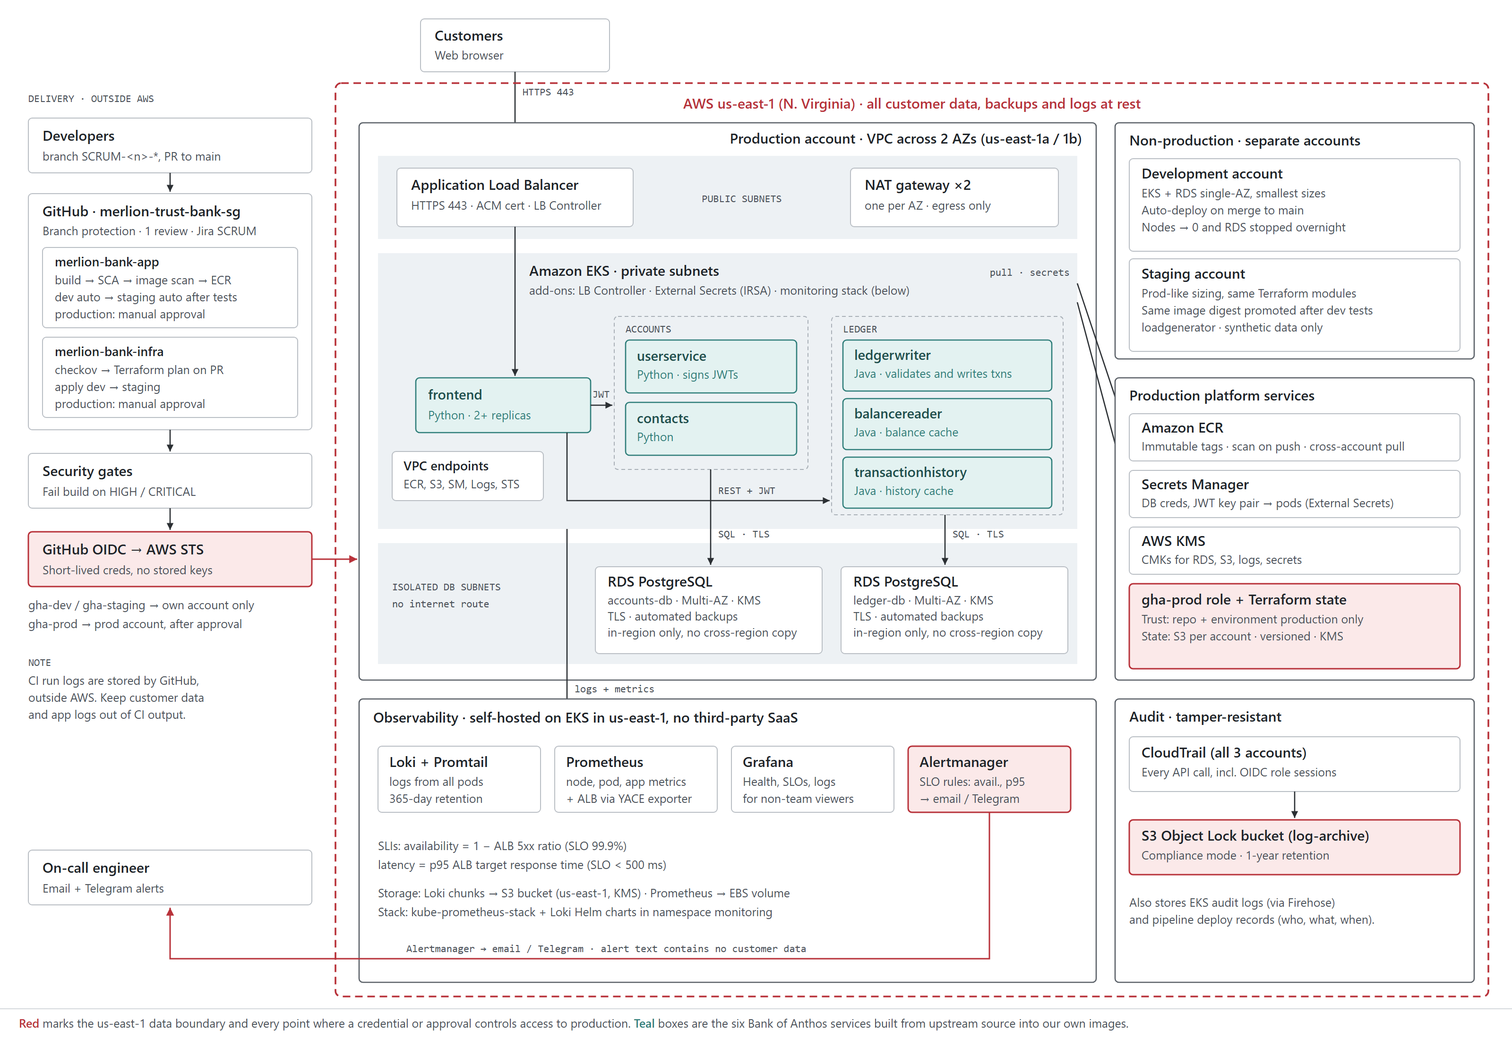
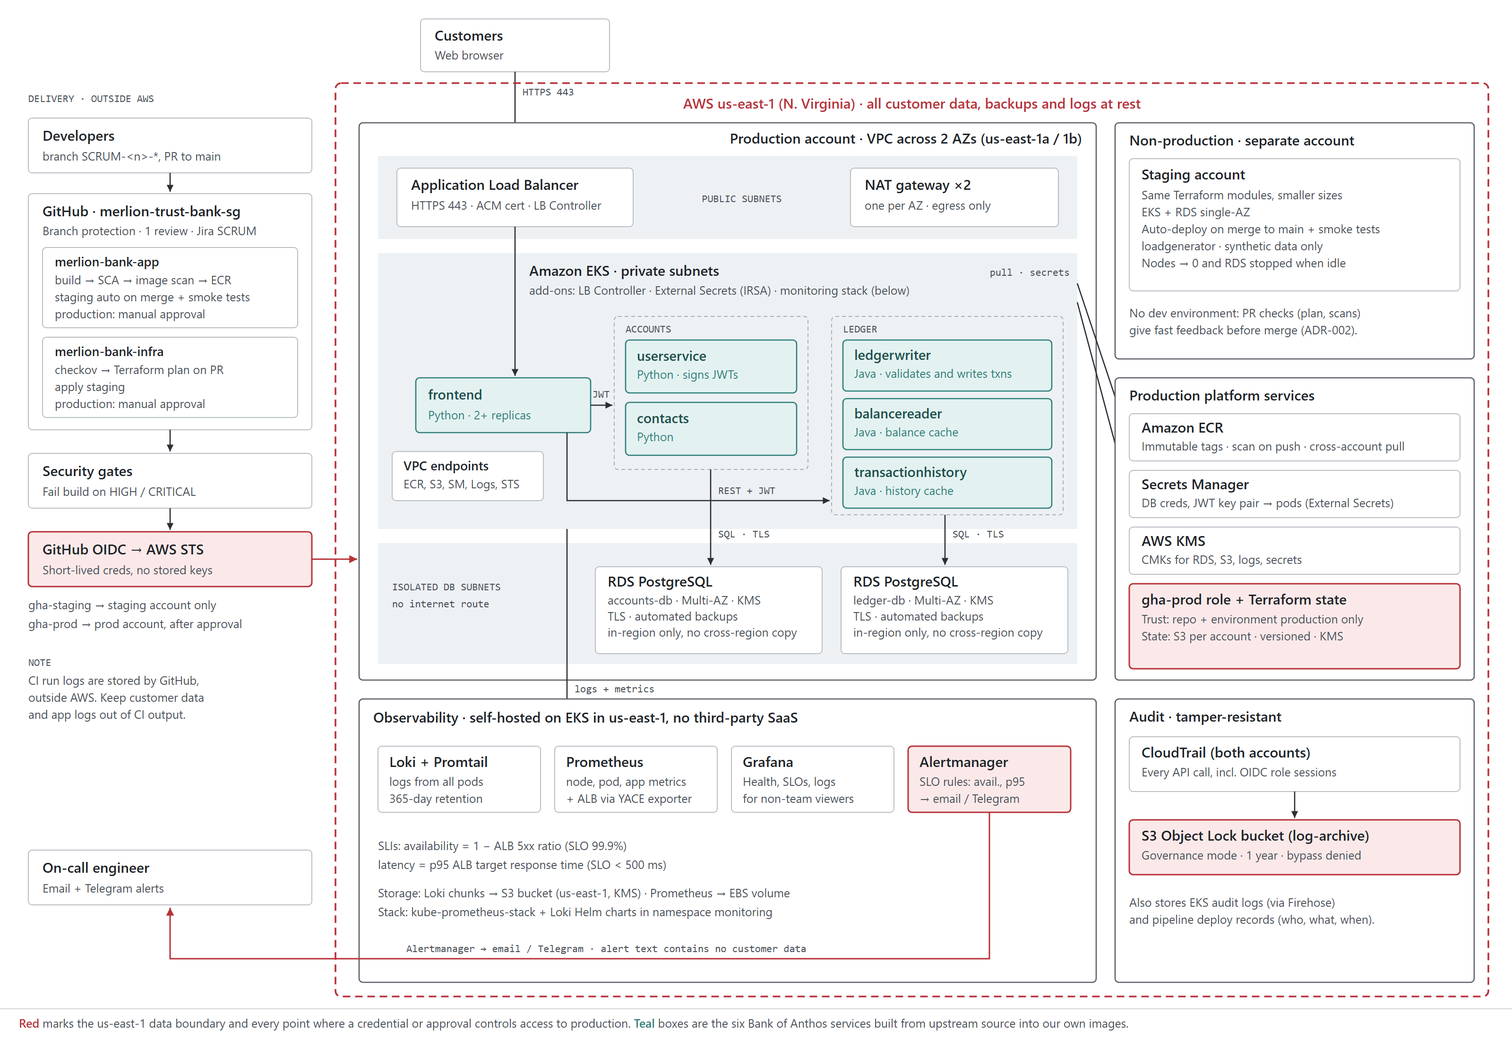
SCRUM-<n>: docs: two environments (staging + production)

diff --git a/docs/task-breakdown.md b/docs/task-breakdown.md
@@ -1,7 +1,7 @@
 # Merlion Trust Bank – Code Check-in Task Breakdown
 
 Capstone: Cloud Infrastructure Engineering · Use Case A (Merlion Trust Bank) · Reference app: Google Bank of Anthos
-Region: **`us-east-1`** (2 AZs: `us-east-1a`, `us-east-1b`) · Accounts: **dev / staging / prod** · Work tracking: **Jira SCRUM board**
+Region: **`us-east-1`** (2 AZs: `us-east-1a`, `us-east-1b`) · Environments / accounts: **staging / prod** · Work tracking: **Jira SCRUM board**
 
 > **Region note.** The brief's data-residency constraint names `ap-southeast-1`. Our instructor has directed us to deploy in **`us-east-1`**, so we treat the constraint as *"all customer data, backups and logs stay in one approved region"*.
 > - Region is a single Terraform variable (`var.region`). Moving to Singapore is a variable change plus a redeploy.
@@ -29,15 +29,15 @@ Region: **`us-east-1`** (2 AZs: `us-east-1a`, `us-east-1b`) · Accounts: **dev /
 
 | Layer | What we build |
 |---|---|
-| Delivery (outside AWS) | GitHub org `merlion-trust-bank-sg` · branches `SCRUM-<n>-*` · PR to `main` with 1 review · Actions: build → SCA → image scan · dev auto → staging auto after tests → **production manual approval** · Terraform plan shown on PR |
-| Identity | GitHub OIDC → AWS STS. `gha-dev` / `gha-staging` can only touch their own account. `gha-prod` reaches the prod account only from the `production` environment, after approval. No stored keys |
-| Accounts | **Dev** (EKS + RDS single-AZ, smallest sizes, auto-deploy on merge, scale to 0 overnight) · **Staging** (prod-like sizing, same Terraform modules, same image promoted, loadgenerator) · **Prod** |
+| Delivery (outside AWS) | GitHub org `merlion-trust-bank-sg` · branches `SCRUM-<n>-*` · PR to `main` with 1 review · Actions: build → SCA → image scan · staging auto on merge → smoke tests → **production manual approval** · Terraform plan shown on PR |
+| Identity | GitHub OIDC → AWS STS. `gha-staging` can only touch the staging account. `gha-prod` reaches the prod account only from the `production` environment, after approval. No stored keys |
+| Accounts | **Staging** (prod-like but smaller, same Terraform modules, auto-deploy on merge, loadgenerator, scaled down when idle) · **Prod** (same image digest promoted after approval). No dev environment: PR checks give fast feedback (ADR-002) |
 | Network (prod) | VPC across 2 AZs. **Public subnets:** ALB (AWS Load Balancer Controller + ACM cert), NAT gateway. **Private subnets:** EKS. **Isolated DB subnets:** no internet route |
 | Workload | 6 Bank of Anthos services built into our own images: `frontend` (2+ replicas), `userservice` (signs JWTs), `contacts`, `ledgerwriter`, `balancereader`, `transactionhistory` |
 | Data | RDS PostgreSQL `accounts-db` and `ledger-db`: Multi-AZ, KMS-encrypted, automated backups, SQL over TLS |
 | Platform services | ECR (immutable tags, scan on push) · Secrets Manager (DB creds, JWT key pair → pods via External Secrets/IRSA) · KMS CMKs (RDS, S3, logs, secrets) · Terraform state in S3 (versioned, encrypted) |
 | Observability | **Self-hosted on EKS** in `us-east-1`, no third-party SaaS (namespace `monitoring`, `kube-prometheus-stack` + Loki Helm charts): **Loki + Promtail** (logs from all pods, chunks in S3 `us-east-1` + KMS, 365-day retention) · **Prometheus** (node, pod, app metrics on EBS; ALB metrics via **YACE** CloudWatch exporter) · **Grafana** (health, SLOs, logs for non-team viewers) · **Alertmanager** (SLO rules → email / Telegram) |
-| Audit | CloudTrail in all 3 accounts → **S3 Object Lock, compliance mode, 1-year retention**. Also stores EKS audit logs and pipeline deploy records (who, what, when) |
+| Audit | CloudTrail in both accounts → **S3 Object Lock, governance mode, 1-year retention** (bypass + deletes denied by bucket policy). Also stores EKS audit logs and pipeline deploy records (who, what, when) |
 
 ---
 
@@ -50,7 +50,7 @@ merlion-bank-infra/
 ├── .github/
 │   ├── workflows/
 │   │   ├── tf-plan.yml            # PR: fmt, validate, tflint, checkov, plan per env -> PR comment
-│   │   └── tf-apply.yml           # main: apply dev -> staging -> (approval) -> prod
+│   │   └── tf-apply.yml           # main: apply staging -> (approval) -> prod
 │   ├── CODEOWNERS
 │   └── pull_request_template.md
 ├── bootstrap/                     # per account: state bucket, lock, GitHub OIDC provider
@@ -61,14 +61,13 @@ merlion-bank-infra/
 │   ├── rds/                       # accounts-db, ledger-db
 │   ├── ecr/                       # one repo per service
 │   ├── secrets/                   # Secrets Manager entries (DB creds, JWT key pair)
-│   ├── iam-ci/                    # gha-dev, gha-staging, gha-prod OIDC roles
+│   ├── iam-ci/                    # gha-staging, gha-prod OIDC roles
 │   ├── audit/                     # CloudTrail + Object Lock bucket
 │   ├── addons/                    # LB Controller, External Secrets
 │   └── observability/             # Loki S3 bucket + IRSA, Helm releases (kube-prometheus-stack,
 │                                  #   Loki, Promtail, YACE), Grafana dashboards JSON,
 │                                  #   PrometheusRules (SLOs), Alertmanager routes
 ├── envs/
-│   ├── dev/                       # root module, dev account
 │   ├── staging/                   # root module, staging account
 │   └── prod/                      # root module, prod account
 ├── docs/
@@ -89,14 +88,13 @@ merlion-bank-app/
 ├── .github/
 │   ├── workflows/
 │   │   ├── ci.yml                 # PR: SCA, build, image scan (fail on HIGH/CRITICAL), gitleaks
-│   │   └── cd.yml                 # main: push ECR -> dev -> tests -> staging -> approval -> prod
+│   │   └── cd.yml                 # main: push ECR -> staging -> smoke tests -> approval -> prod
 │   ├── CODEOWNERS
 │   └── pull_request_template.md
 ├── src/                           # Bank of Anthos upstream source, pinned release tag
 ├── deploy/
 │   └── helm/bank-of-anthos/       # OUR chart (upstream manifests = reference only)
 │       ├── templates/
-│       ├── values-dev.yaml
 │       ├── values-staging.yaml
 │       └── values-prod.yaml
 ├── ops/
@@ -105,7 +103,7 @@ merlion-bank-app/
 │   ├── queries/                   # saved LogQL / PromQL queries
 │   └── demo/                      # failing-gate PR + alert trigger scripts
 ├── security/.trivyignore          # justified exceptions only, each with expiry
-└── README.md                      # pipeline doc: SCRUM branch -> PR -> dev -> staging -> prod
+└── README.md                      # pipeline doc: SCRUM branch -> PR -> staging -> prod
 ```
 
 ---
@@ -120,7 +118,7 @@ merlion-bank-app/
 | Reviewer | **Never the author**, and preferably from a different role (see "Reviewer" columns) |
 | Commit messages | `SCRUM-<n>: <type>(<scope>): <summary>`. Example: `SCRUM-12: feat(network): add isolated DB subnets` |
 | PR template | What changed · Why · Jira link · `terraform plan` / test evidence · Constraint impact (region / audit / retention / credentials) |
-| GitHub Environments | `dev` (no gate) · `staging` (no gate, runs after dev tests) · `production` (**required reviewers**, only `main`) |
+| GitHub Environments | `staging` (no gate, auto on merge to `main`) · `production` (**required reviewers**, only `main`) |
 | Never commit | Secrets, kubeconfigs, `.terraform/`, state files, `*.tfvars` with secrets. gitleaks runs as a pre-commit hook and in CI |
 | CI output hygiene | CI run logs are stored by GitHub, outside our AWS region. **No customer data and no app logs in CI output.** Smoke tests assert on status codes only |
 
@@ -135,23 +133,23 @@ Replace `SCRUM-<n>` with the Jira issue number when you create the ticket.
 | ID | Task | Owner | Branch | Key files | Depends on | Reviewer |
 |---|---|---|---|---|---|---|
 | INF-01 | Repo setup: branch protection, CODEOWNERS, PR template, `.gitignore`, gitleaks pre-commit, Jira link, README skeleton | DO1 | `SCRUM-<n>-repo-setup` | `.github/*`, `README.md` | – | SA |
-| INF-02 | Bootstrap **each account** (dev, staging, prod): S3 state bucket (versioned, KMS), lock table, GitHub OIDC provider | DO1 | `SCRUM-<n>-bootstrap` | `bootstrap/` | INF-01 | SRE |
-| INF-03 | OIDC roles `gha-dev`, `gha-staging`, `gha-prod`. Trust is pinned to `repo:merlion-trust-bank-sg/*` + environment; `gha-prod` trusts only `environment:production`; each role is scoped to its own account | DO1 | `SCRUM-<n>-oidc-roles` | `modules/iam-ci/` | INF-02 | SA |
+| INF-02 | Bootstrap **each account** (staging, prod): S3 state bucket (versioned, KMS), lock table, GitHub OIDC provider | DO1 | `SCRUM-<n>-bootstrap` | `bootstrap/` | INF-01 | SRE |
+| INF-03 | OIDC roles `gha-staging`, `gha-prod`. Trust is pinned to `repo:merlion-trust-bank-sg/*` + environment; `gha-prod` trusts only `environment:production`; each role is scoped to its own account | DO1 | `SCRUM-<n>-oidc-roles` | `modules/iam-ci/` | INF-02 | SA |
 | INF-04 | KMS module: CMKs for RDS, S3 (state + audit), CloudWatch Logs, Secrets Manager; key policies, rotation on | DO2 | `SCRUM-<n>-kms` | `modules/kms/` | INF-02 | DO1 |
-| INF-05 | Network: VPC across **2 AZs (`us-east-1a`, `us-east-1b`)**. Public subnets (ALB, NAT), private subnets (EKS), **isolated DB subnets with no internet route**, VPC endpoints (ECR, S3, Secrets Manager, Logs, STS). 1 NAT in dev/staging | DO1 | `SCRUM-<n>-network` | `modules/network/` | INF-02 | SA |
+| INF-05 | Network: VPC across **2 AZs (`us-east-1a`, `us-east-1b`)**. Public subnets (ALB, NAT), private subnets (EKS), **isolated DB subnets with no internet route**, VPC endpoints (ECR, S3, Secrets Manager, Logs, STS). 1 NAT in staging, 1 per AZ in prod | DO1 | `SCRUM-<n>-network` | `modules/network/` | INF-02 | SA |
 | INF-06 | EKS: cluster in private subnets, managed node group, IRSA, control-plane logs **including `audit`** → CloudWatch | DO1 | `SCRUM-<n>-eks` | `modules/eks/` | INF-05 | SRE |
-| INF-07 | RDS: `accounts-db` and `ledger-db` PostgreSQL in isolated DB subnets. Multi-AZ in staging/prod, single-AZ in dev. KMS encryption, automated backups, `rds.force_ssl = 1`, SG allows only EKS nodes | DO2 | `SCRUM-<n>-rds` | `modules/rds/` | INF-04, INF-05 | DO1 |
+| INF-07 | RDS: `accounts-db` and `ledger-db` PostgreSQL in isolated DB subnets. Multi-AZ in prod, single-AZ in staging (cost). KMS encryption, automated backups, `rds.force_ssl = 1`, SG allows only EKS nodes | DO2 | `SCRUM-<n>-rds` | `modules/rds/` | INF-04, INF-05 | DO1 |
 | INF-08 | ECR: one repo per service, **immutable tags**, scan on push, lifecycle policy. Promotion model (central vs per-account) per ADR-007 | DO2 | `SCRUM-<n>-ecr` | `modules/ecr/` | INF-02 | DO1 |
 | INF-09 | Secrets Manager: DB credentials (RDS-managed master secret) and JWT key pair, KMS-encrypted. Read access only for the External Secrets IRSA role | DO2 | `SCRUM-<n>-secrets` | `modules/secrets/` | INF-04, INF-07 | SRE |
-| INF-10 | Audit: CloudTrail in **all 3 accounts** (management + data events for audit bucket) → S3 bucket with **Object Lock compliance mode, 365 days**, log file validation, bucket policy denying delete/`PutBucketObjectLockConfiguration` to engineering roles; prefixes for EKS audit logs and pipeline deploy records | SA | `SCRUM-<n>-audit-trail` | `modules/audit/` | INF-04 | DO1 |
+| INF-10 | Audit: CloudTrail in **both accounts** (management + data events for audit bucket) → S3 bucket with **Object Lock governance mode, 365 days** (instructor advice), log file validation, bucket policy denying `DeleteObject*` and `s3:BypassGovernanceRetention` to everyone; prefixes for EKS audit logs and pipeline deploy records | SA | `SCRUM-<n>-audit-trail` | `modules/audit/` | INF-04 | DO1 |
 | INF-11 | Region guardrail: `var.region = "us-east-1"` in every env root; deny-other-regions policy on CI roles; CloudTrail alarm on console write events in prod | SA | `SCRUM-<n>-region-guardrail` | `modules/iam-ci/`, `envs/*/providers.tf` | INF-03, INF-10 | DO1 |
-| INF-12 | Env roots `envs/dev`, `envs/staging`, `envs/prod` wiring all modules. Separate state per account; dev smallest sizes, staging prod-like | DO1 | `SCRUM-<n>-env-roots` | `envs/` | INF-04…10 | DO2 |
-| INF-13 | Infra pipeline. **PR:** fmt / validate / tflint / **checkov (fail on HIGH)** / `plan` per env posted as PR comment. **main:** apply dev (`gha-dev`) → staging (`gha-staging`) → **manual approval** → prod (`gha-prod`) | DO2 | `SCRUM-<n>-tf-pipeline` | `.github/workflows/tf-*.yml` | INF-03, INF-12 | DO1 |
+| INF-12 | Env roots `envs/staging`, `envs/prod` wiring all modules. Separate state per account; staging smaller sizes | DO1 | `SCRUM-<n>-env-roots` | `envs/` | INF-04…10 | DO2 |
+| INF-13 | Infra pipeline. **PR:** fmt / validate / tflint / **checkov (fail on HIGH)** / `plan` per env posted as PR comment. **main:** apply staging (`gha-staging`) → **manual approval** → prod (`gha-prod`) | DO2 | `SCRUM-<n>-tf-pipeline` | `.github/workflows/tf-*.yml` | INF-03, INF-12 | DO1 |
 | INF-14 | Cluster add-ons part 1: **AWS Load Balancer Controller** (IRSA), **ACM certificate** for the ALB, **External Secrets Operator** (IRSA → Secrets Manager) | DO2 | `SCRUM-<n>-addons-lb-eso` | `modules/addons/` | INF-06, INF-09 | SRE |
 | INF-15 | Monitoring stack in namespace `monitoring` via Helm (Terraform `helm_release`, pinned chart versions): **kube-prometheus-stack** (Prometheus on EBS PV, node-exporter, kube-state-metrics, Grafana, Alertmanager), **Loki** with chunks in an **S3 bucket in `us-east-1`** (KMS, IRSA, compactor retention **365 days**), **Promtail** DaemonSet (or Grafana Alloy, Promtail's successor), **YACE** exporter (IRSA, read-only CloudWatch) for ALB 5xx / `TargetResponseTime`. Grafana exposed via ALB ingress with login, admin password from Secrets Manager | SRE | `SCRUM-<n>-monitoring-stack` | `modules/observability/` | INF-06, INF-04, INF-14 | DO2 |
 | INF-16 | Alert routing: **Alertmanager** receivers for **email** (SMTP) and **Telegram** (native `telegram_configs`). Bot token + SMTP creds via External Secrets, never in values files. Alert templates carry metric names and thresholds only, **no customer data**. Include a `Watchdog` / dead-man's-switch alert so a down Prometheus is noticed | SRE | `SCRUM-<n>-alertmanager-routing` | `modules/observability/` | INF-15 | DO2 |
 | INF-17 | **Grafana dashboard** ("is the system healthy right now?"): SLO status + error budget, ALB requests / 5xx / p95, pod and node CPU and memory, Loki log panel per service. Provisioned as JSON (dashboards-as-code). **PrometheusRules** for SLOs: availability burn rate, p95 > 500 ms, plus pod CrashLoop / DB unreachable | SRE | `SCRUM-<n>-grafana-slo-rules` | `modules/observability/` | INF-15, INF-16, APP-13 | SA |
-| INF-18 | Cost controls: tagging standard, AWS Budgets alert per account, **dev scale-to-0 overnight** (scheduled node group scaling), teardown workflow | SRE | `SCRUM-<n>-cost-controls` | `envs/dev/`, `.github/workflows/teardown.yml` | INF-12 | SA |
+| INF-18 | Cost controls: tagging standard, AWS Budgets alert per account, **staging scale-to-0 when idle** (scheduled node group scaling, RDS stop), teardown workflow | SRE | `SCRUM-<n>-cost-controls` | `envs/staging/`, `.github/workflows/teardown.yml` | INF-12 | SA |
 
 ### 5.2 Docs and ADRs (`merlion-bank-infra/docs`)
 
@@ -161,20 +159,20 @@ Replace `SCRUM-<n>` with the Jira issue number when you create the ticket.
 | DOC-02 | Architecture diagram: update the region label to `us-east-1` and keep it matching what's deployed | SA | `SCRUM-<n>-architecture-diagram` | DO1 |
 | DOC-03 | Service selection: chosen vs alternative vs why (EKS, RDS, GitHub Actions, Prometheus/Loki/Grafana, Secrets Manager) | SA | `SCRUM-<n>-service-selection` | DO2 |
 | DOC-04 | Constraint compliance mapping: constraint → decision → evidence (see [section 8](#8-hard-constraint-traceability)) | SA | `SCRUM-<n>-compliance-map` | SRE |
-| DOC-05 | Monthly prod cost estimate with `us-east-1` pricing (EKS, nodes incl. monitoring stack, 2× Multi-AZ RDS, NAT, ALB, EBS for Prometheus, S3 for Loki + audit, CloudTrail, YACE CloudWatch API calls) plus dev/staging run cost | SA | `SCRUM-<n>-cost-estimate` | SRE |
+| DOC-05 | Monthly prod cost estimate with `us-east-1` pricing (EKS, nodes incl. monitoring stack, 2× Multi-AZ RDS, NAT, ALB, EBS for Prometheus, S3 for Loki + audit, CloudTrail, YACE CloudWatch API calls) plus staging run cost | SA | `SCRUM-<n>-cost-estimate` | SRE |
 | DOC-06 | ADR-001 Runtime: EKS vs ECS | SA | `SCRUM-<n>-adr-001-runtime` | DO1 |
-| DOC-07 | ADR-002 Multi-account dev/staging/prod vs single account | DO1 | `SCRUM-<n>-adr-002-accounts` | SA |
+| DOC-07 | ADR-002 Environments: staging + production, one account each (vs single account, vs adding dev) | DO1 | `SCRUM-<n>-adr-002-accounts` | SA |
 | DOC-08 | ADR-003 Observability: **self-hosted Prometheus + Loki + Grafana + Alertmanager on EKS** (chosen) vs CloudWatch (alternative) vs Grafana Cloud (rejected: SaaS, data outside our region). Consequences: data stays in `us-east-1`, open-source skills from the labs, no per-GB ingest fees; but we operate it ourselves (single replicas, so a Watchdog alert is needed), and ALB metrics still come from CloudWatch via YACE | SRE | `SCRUM-<n>-adr-003-observability` | SA |
-| DOC-09 | ADR-004 Audit log immutability: S3 Object Lock compliance mode, 1 year | SA | `SCRUM-<n>-adr-004-audit` | DO1 |
+| DOC-09 | ADR-004 Audit log immutability: S3 Object Lock governance mode + denied bypass, 1 year (vs compliance mode) | SA | `SCRUM-<n>-adr-004-audit` | DO1 |
 | DOC-10 | ADR-005 Credentials: GitHub OIDC per environment, no static keys | DO1 | `SCRUM-<n>-adr-005-oidc` | DO2 |
 | DOC-11 | ADR-006 Region: `us-east-1` per instructor directive (deviation from the brief, approval recorded, region parameterised) | SA | `SCRUM-<n>-adr-006-region` | SRE |
-| DOC-12 | ADR-007 Image promotion: build once, promote the same digest dev → staging → prod (central ECR vs per-account copy) | DO2 | `SCRUM-<n>-adr-007-promotion` | DO1 |
+| DOC-12 | ADR-007 Image promotion: build once, promote the same digest staging → prod (central ECR vs per-account copy) | DO2 | `SCRUM-<n>-adr-007-promotion` | DO1 |
 
 ### 5.3 `merlion-bank-app`
 
 | ID | Task | Owner | Branch | Key files | Depends on | Reviewer |
 |---|---|---|---|---|---|---|
-| APP-01 | Repo setup: branch protection, CODEOWNERS, PR template, GitHub Environments `dev`, `staging`, `production` (prod requires reviewers) | DO2 | `SCRUM-<n>-repo-setup` | `.github/*` | – | DO1 |
+| APP-01 | Repo setup: branch protection, CODEOWNERS, PR template, GitHub Environments `staging`, `production` (prod requires reviewers) | DO2 | `SCRUM-<n>-repo-setup` | `.github/*` | – | DO1 |
 | APP-02 | Vendor Bank of Anthos source at a pinned release tag into `src/`, recording the upstream commit in README | DO2 | `SCRUM-<n>-import-source` | `src/`, `README.md` | APP-01 | SA |
 | APP-03 | Build images for the **6 services** (+ `loadgenerator` for staging), tagged with git SHA, pushed by digest | DO2 | `SCRUM-<n>-image-builds` | `ci.yml` | APP-02, INF-08 | DO1 |
 | APP-04 | **Security gate 1 – SCA:** Trivy `fs` / OWASP dependency-check on Python + Java deps, **fail on HIGH/CRITICAL**, exit code not suppressed | DO2 | `SCRUM-<n>-sca-gate` | `ci.yml` | APP-03 | SRE |
@@ -182,10 +180,10 @@ Replace `SCRUM-<n>` with the Jira issue number when you create the ticket.
 | APP-06 | Secret scanning: gitleaks in CI | DO1 | `SCRUM-<n>-gitleaks` | `ci.yml` | APP-01 | DO2 |
 | APP-07 | Helm chart (our own): 6 Deployments + Services, **`frontend` ≥ 2 replicas**, probes, requests/limits, PDBs, HPA on `frontend`. Ingress `ingressClassName: alb` with ACM cert and HTTPS 443. DB endpoints → RDS over TLS | DO1 | `SCRUM-<n>-helm-chart` | `deploy/helm/` | APP-03, INF-07, INF-14 | DO2 |
 | APP-08 | Secrets wiring: `ExternalSecret` objects for DB creds + JWT key pair → Kubernetes Secrets → pods. Nothing in values files or images | DO1 | `SCRUM-<n>-external-secrets` | `deploy/helm/templates/externalsecret.yaml` | APP-07, INF-09, INF-14 | SRE |
-| APP-09 | Env values: `values-dev` (1 replica, smallest), `values-staging` (prod-like, `loadgenerator` on), `values-prod` | DO1 | `SCRUM-<n>-env-values` | `deploy/helm/values-*.yaml` | APP-07 | SA |
-| APP-10 | CD pipeline: merge to `main` → build + gates → push → **dev** (`gha-dev`) auto → smoke tests → **staging** (`gha-staging`) auto, same digest → **manual approval** → **prod** (`gha-prod`) | DO2 | `SCRUM-<n>-cd-pipeline` | `cd.yml` | APP-05, APP-09, INF-03 | DO1 |
+| APP-09 | Env values: `values-staging` (smaller, `loadgenerator` on), `values-prod` | DO1 | `SCRUM-<n>-env-values` | `deploy/helm/values-*.yaml` | APP-07 | SA |
+| APP-10 | CD pipeline: merge to `main` → build + gates → push → **staging** (`gha-staging`) auto → smoke tests → **manual approval** → **prod** (`gha-prod`), same image digest | DO2 | `SCRUM-<n>-cd-pipeline` | `cd.yml` | APP-05, APP-09, INF-03 | DO1 |
 | APP-11 | Deploy audit record: on every prod deploy, the pipeline writes `{actor, approver, PR, commit SHA, image digest, env, timestamp}` to the Object Lock bucket | SA | `SCRUM-<n>-deploy-audit` | `cd.yml` | APP-10, INF-10 | DO2 |
-| APP-12 | Pipeline README: SCRUM branch → PR → dev → staging → prod; approvals; **what happens when a security gate fails**; CI-log hygiene note | DO2 | `SCRUM-<n>-pipeline-readme` | `README.md` | APP-10 | SA |
+| APP-12 | Pipeline README: SCRUM branch → PR → staging → prod; approvals; **what happens when a security gate fails**; CI-log hygiene note | DO2 | `SCRUM-<n>-pipeline-readme` | `README.md` | APP-10 | SA |
 | APP-13 | Logging check: all 6 services log to stdout, visible in Loki per service (`{namespace="bank", app="<service>"}`). Save LogQL queries (errors per service, failed logins, ledger write failures) | SRE | `SCRUM-<n>-log-queries` | `ops/queries/` | APP-10, INF-15 | DO1 |
 | APP-14 | SLIs and SLOs: **availability** = 1 − ALB 5xx ratio (target 99.9%); **p95 latency** = ALB `TargetResponseTime` p95 (target < 500 ms). Justification + error budget | SRE | `SCRUM-<n>-slo` | `ops/slo/slo.md` | APP-13 | SA |
 | APP-15 | Incident runbook, e.g. "ledger-db failover / connection errors": detection (Alertmanager alert), diagnosis (Grafana dashboard, LogQL in Loki, RDS events), mitigation, escalation | SRE | `SCRUM-<n>-runbook` | `ops/runbooks/` | INF-17 | DO1 |
@@ -227,7 +225,7 @@ Each member also **reviews** roughly 10–12 PRs, so the review history shows cr
 |---|---|---|
 | **Data residency** (one approved region: `us-east-1` per instructor) | INF-05/07 (VPC, RDS, backups in-region, no cross-region copy), INF-11 (region pin + deny), INF-15 (self-hosted Loki/Prometheus, Loki chunks in S3 `us-east-1`, no SaaS), CI-log hygiene rule | `terraform state show` region, RDS backup config, Loki bucket region, ADR-003, ADR-006 |
 | **Auditability** (every prod change traceable) | Branch protection + SCRUM links (INF-01/APP-01), plan on PR (INF-13), prod approval (APP-10), deploy record (APP-11), CloudTrail incl. OIDC role sessions (INF-10) | Jira ticket → PR → reviewer → Actions run → approver → deploy record → CloudTrail `AssumeRoleWithWebIdentity` event |
-| **Audit log retention 1 yr, tamper-proof** | INF-10 Object Lock **compliance mode** 365 days, delete denied to engineering roles | Bucket Object Lock config, a failed `DeleteObject` attempt, ADR-004 |
+| **Audit log retention 1 yr, tamper-proof** | INF-10 Object Lock **governance mode** 365 days; deletes and `BypassGovernanceRetention` denied to everyone in the bucket policy | Bucket Object Lock config, a failed `DeleteObject` attempt, ADR-004 |
 | No console changes to prod | INF-03 (`gha-prod` only from `production` environment), INF-11 (console-write alarm) | IAM trust policy, CloudTrail query |
 | Credential separation | INF-03 per-account roles, APP-10 assumes a different role per stage | `gha-staging` trying a prod action → `AccessDenied` |
 | Security gates block | APP-04, APP-05, INF-13 checkov | Demo PR with a failing scan (APP-16) |
